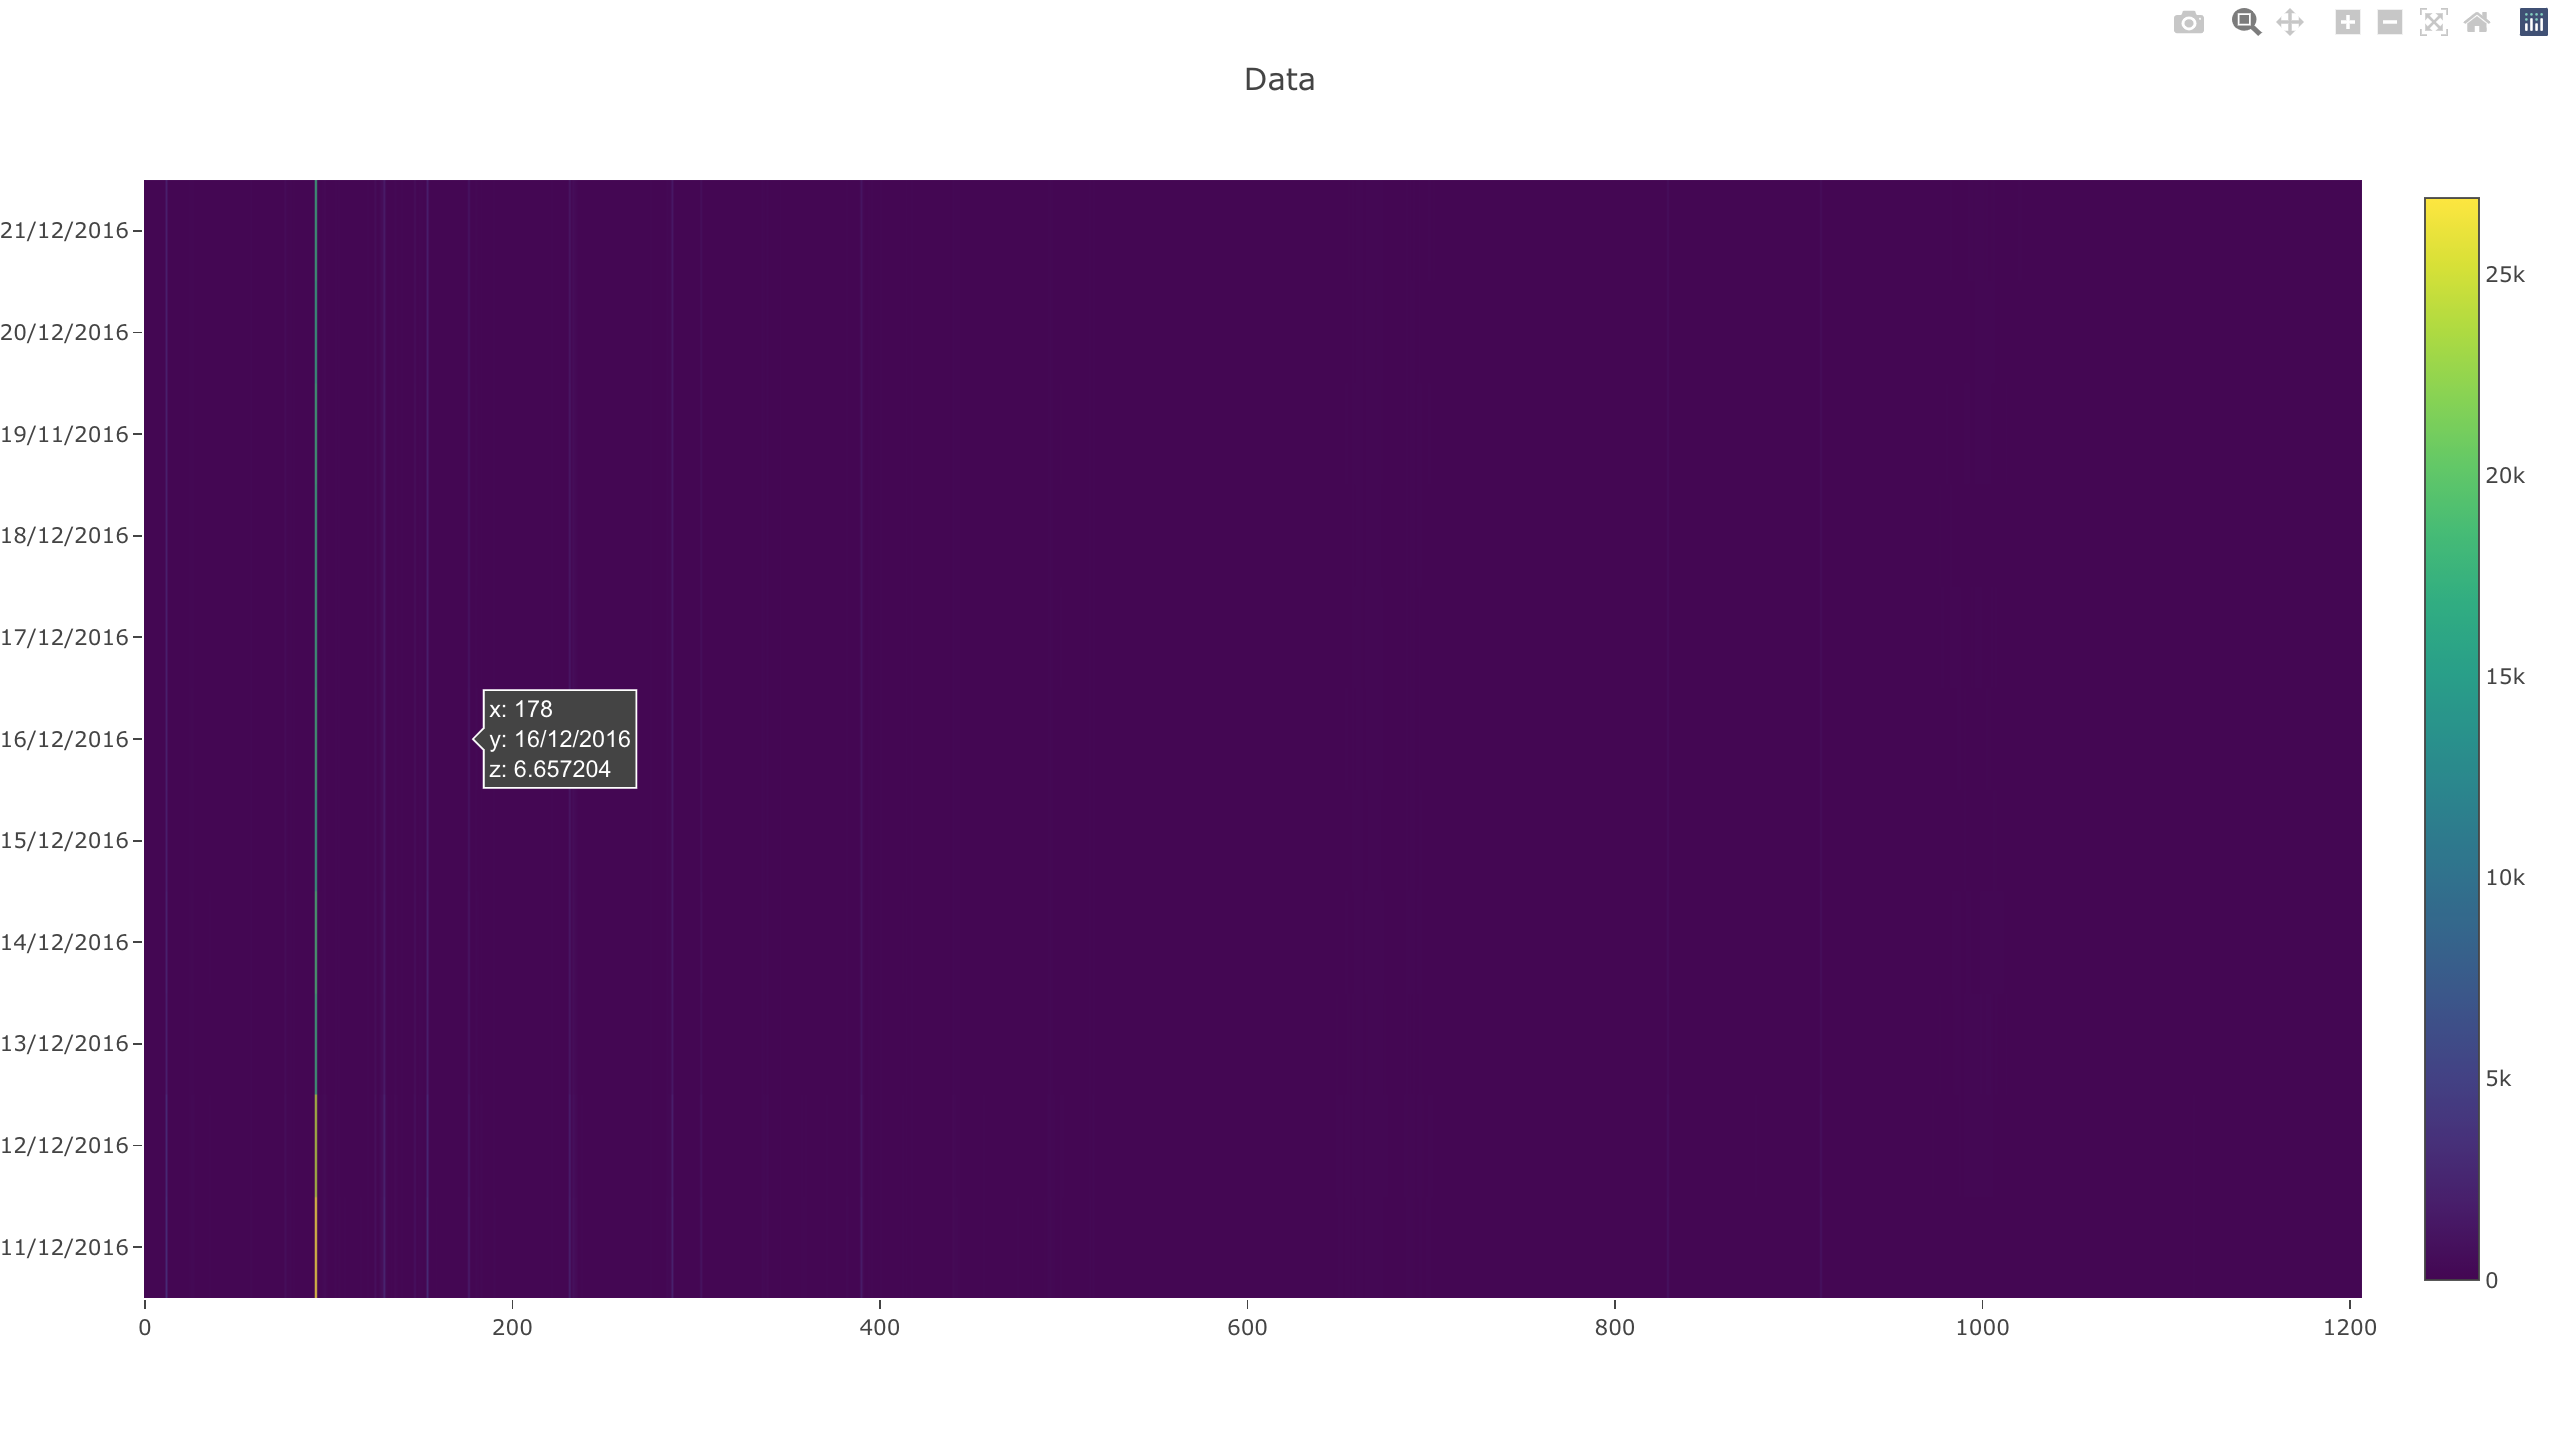
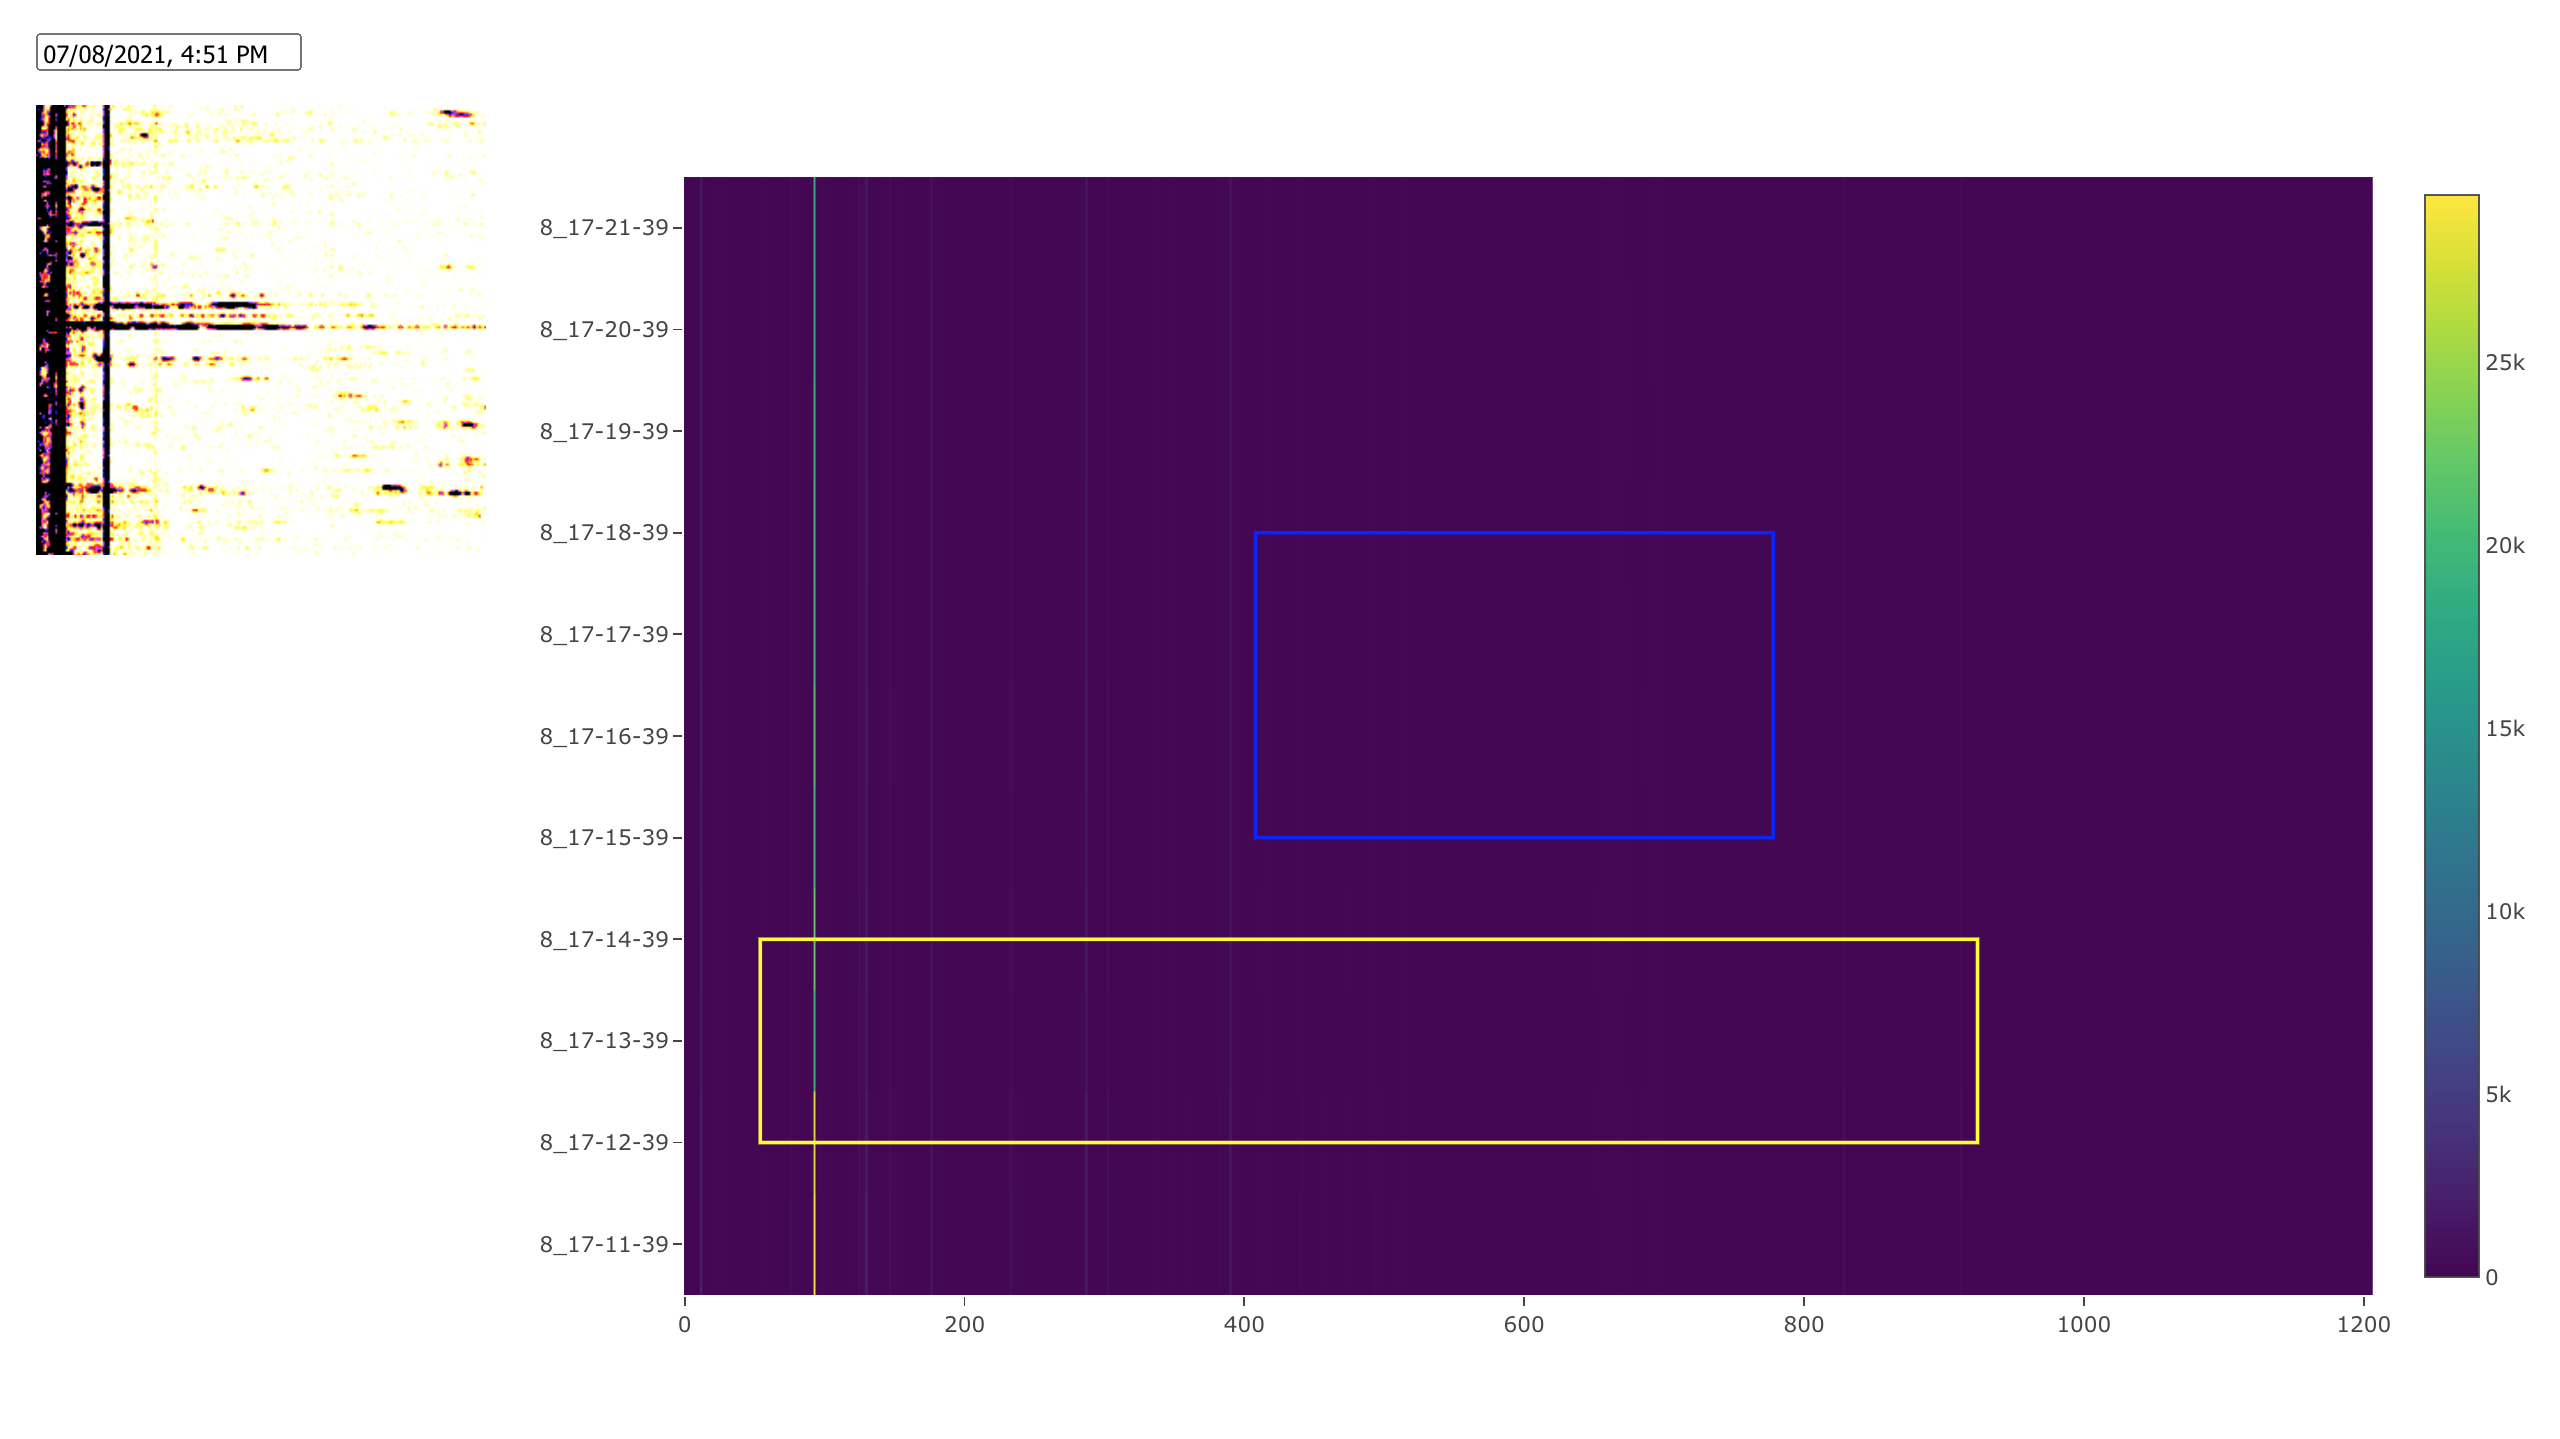
update

diff --git a/client/src/App.js b/client/src/App.js
@@ -10,9 +10,12 @@ export default function App() {
 
   const url = 'http://localhost:5000/'
   const [data, setData] = useState([])
+  const [shapes, setShapes] = useState([])
   const [time, setTime] = useState([])
   const [date, setDate] = useState(new Date());
   const [subImg, setSubImg] = useState(SubImg)
+  const plotData = [{ z: data, y: time, type: 'heatmap', colorscale: 'Viridis' }]
+  const plotLayout = { width: window.innerWidth - 300, height: window.innerHeight, shapes }
 
   useEffect(() => {
     const interval = setInterval(() => {
@@ -20,23 +23,25 @@ export default function App() {
         .then(res => {
           setData(res.data.data)
           setTime(res.data.time)
+          setShapes(res.data.shapes)
         })
         .catch(err => console.error(err))
     }, 10000);
     return () => clearInterval(interval);
   }, []);
 
+
+  const get_image = (p) => {
+    setSubImg(`${url}image/${p.points[0].y}/${p.points[0].y}_${p.points[0].x.toString().padStart(4, 0)}.png`)
+  }
+
   return (
     <div className='main'>
       <div className='main-nav'>
-        <DatePicker selected={date} onChange={date => setDate(date)} showTimeSelect dateFormat="dd-MM-yyyy_hh-mm-ss" />
-        <br /><br /><Magnifier src={subImg} width={250} zoomFactor={1.5} />
+        <DatePicker selected={date} showTimeSelect dateFormat="Pp" onChange={date => setDate(date.getTime())} /><br /><br />
+        <Magnifier src={subImg} width={250} zoomFactor={1.5} />
       </div>
-      <Plot
-        data={[{ z: data, y: time, type: 'heatmap', colorscale: 'Viridis' }]}
-        layout={{ width: window.innerWidth - 300, height: window.innerHeight }}
-        onClick={p => setSubImg(`${url}image/${p.points[0].y}/${p.points[0].y}_${p.points[0].x.toString().padStart(4, 0)}.png`)}
-      />
+      <Plot data={plotData} layout={plotLayout} onClick={p => get_image(p)} />
     </div>
   );
 }

diff --git a/main.py b/main.py
@@ -1,7 +1,9 @@
 import os
 import random
 import numpy as np
+from pathlib import Path
 from flask_cors import CORS
+from datetime import datetime
 from flask.globals import request
 from flask import Flask, jsonify, render_template, send_from_directory
 
@@ -9,33 +11,41 @@ app = Flask(__name__, static_folder="client/build/static/",
             template_folder="client/build/")
 CORS(app)
 
-path = './data/sample/'
-time_list = [
-   "2020-09-08_17-11-39",
-   "2020-09-08_17-12-39",
-   "2020-09-08_17-13-39",
-   "2020-09-08_17-14-39",
-   "2020-09-08_17-15-39",
-   "2020-09-08_17-16-39",
-   "2020-09-08_17-17-39",
-   "2020-09-08_17-18-39",
-   "2020-09-08_17-19-39",
-   "2020-09-08_17-20-39",
-   "2020-09-08_17-21-39"
-]
 
 @app.route('/')
 def main():
     return render_template('index.html')
 
+
 @app.route('/image/<path:filename>')
-def send_file(filename):
+def serve_image(filename):
     return send_from_directory('./data/images', filename)
+
 
 @app.route('/data', methods=['POST'])
 def data():
-    file_list = sorted(os.path.join(r, fn) for r, ds, fs in os.walk(path) for fn in fs if fn.endswith('npy'))
-    return jsonify({'data': np.load(file_list[random.randint(0,1)]).tolist(), 'time':time_list})
+    data, time, shapes = get_data(request.json)
+    return jsonify({'data': data, 'time': time, 'shapes': shapes})
+
+
+def get_data(obj):
+    path = './data/sample/'
+    time_list = ["2020-09-08_17-11-39", "2020-09-08_17-12-39", "2020-09-08_17-13-39", "2020-09-08_17-14-39", 
+    "2020-09-08_17-15-39","2020-09-08_17-16-39", "2020-09-08_17-17-39","2020-09-08_17-18-39", "2020-09-08_17-19-39", 
+    "2020-09-08_17-20-39","2020-09-08_17-21-39"]
+
+    shapes = [
+    { 'type': 'rect', 'x0': random.randint(50,100), 'y0': 1, 'x1': random.randint(500,1000), 'y1': 3, 'line': { 'color': 'yellow' } },
+    { 'type': 'rect', 'x0': random.randint(100,550), 'y0': 4, 'x1': random.randint(600,800), 'y1': 7, 'line': { 'color': 'blue' } }
+    ]
+
+    if 'date_key' in obj.keys():
+        date_key = datetime.fromtimestamp(obj.json['date_key']/1000.0).strftime("%d-%m-%Y")
+    else:
+        file_list = sorted(Path(path).rglob('*.npy')) #key=lambda f: datetime.strptime(f.stem, 'date_format')
+        data = np.load(file_list[random.randint(0,1)]).tolist()
+    return data , time_list, shapes
+
 
 if __name__ == "__main__":
     app.run(host='0.0.0.0', port=5000, debug=True)

diff --git a/helper.py b/helper.py
@@ -14,16 +14,20 @@ def waterfall(file_p):
     # Resample
     x = signal.resample(x, 1000)
     # Normalization
-    #norm = (x-np.amin(x))/(np.amax(x)-np.amin(x))
-    #x = x / norm 
+
+    # [np.abs(np.amax(x)-np.amin(x)) < 0.0000000001]
+    #x /= (x-np.amin(x))/(np.amax(x)-np.amin(x)) 
+
     # Show
     plt.figure(1, figsize=(38.71, 19.485), dpi=100, frameon=False)
-    plt.imshow(x, aspect='auto', norm=LogNorm(.1))
+    plt.imshow(x, aspect='auto')
     plt.axis('off')
-    np.save('./data/sample/20-02-2021_07-20-24.npy', x)
+
+
+    np.save('./data/sample/20-02-2021_07-21-24.npy', x)
     #image_path = './data/{}.png'.format(Path(file_p).stem)
     #plt.savefig(image_path, bbox_inches='tight', pad_inches=0, dpi=100)
-    plt.close('all')
+    #plt.close('all')
 
 if __name__=='__main__':
-    waterfall('./data/data/20-02-2021_07-20-24.npy')
+    waterfall('./data/data/20-02-2021_07-21-24.npy')
